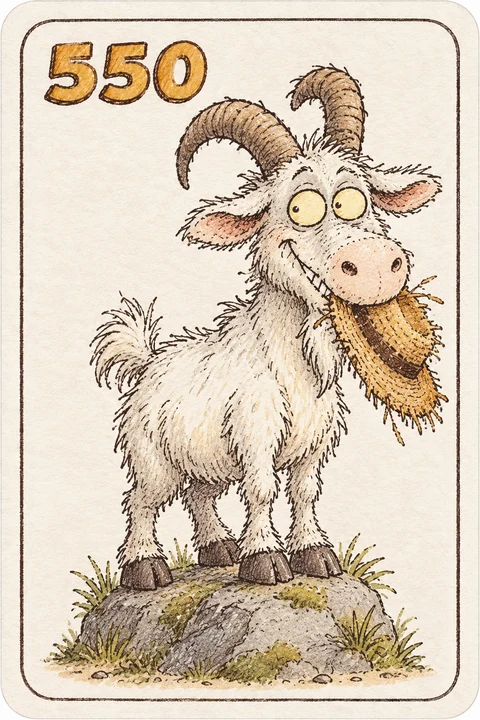
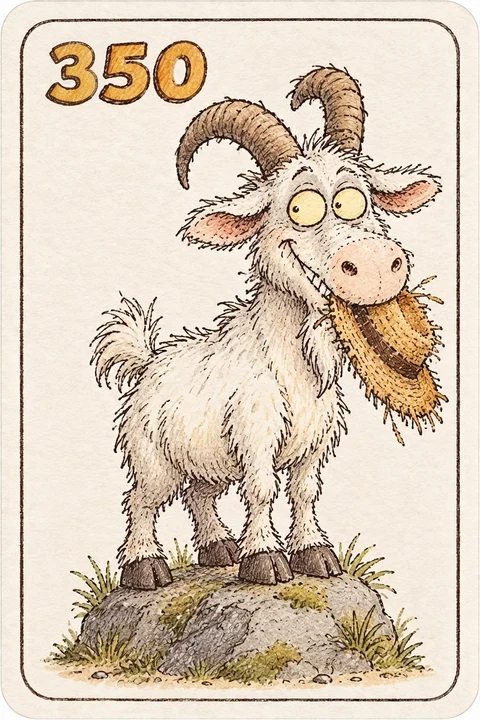
Profilbilder und korrigierte Ziegenkarte eingebunden; Konvertierung nimmt auch JPEG und _neu-Dateien

diff --git a/web/app.js b/web/app.js
@@ -94,7 +94,7 @@ AVATAR_KEY.forEach((k) => {
 });
 function avatarHTML(p) {
   const k = AVATAR_KEY[p % AVATAR_KEY.length];
-  if (avatarOk[k]) return `<div class="avatar" style="background-image:url(${A}avatar_${k}.webp);background-size:cover;background-position:center"></div>`;
+  if (avatarOk[k]) return `<div class="avatar" style="background-image:url(${A}avatar_${k}.webp);background-size:128%;background-position:50% 28%"></div>`;
   return `<div class="avatar" style="background-image:url(${tierImg(AVATAR_ANIMAL[p % AVATAR_ANIMAL.length])})"></div>`;
 }
 /** Sichtbarer Tierbestand: Karten, die gerade im Kuhhandel in der Mitte liegen, fehlen im Inventar. */

diff --git a/convert_assets.py b/convert_assets.py
@@ -1,10 +1,12 @@
-"""Erzeugt die verkleinerten WebP-Bilder für das Spiel aus deinen PNG-Originalen.
+"""Erzeugt die verkleinerten WebP-Bilder für das Spiel aus deinen Originalen (PNG oder JPEG).
 
     .venv/bin/python convert_assets.py
 
-Originale: web/assets/cards/*.png, web/assets/money/*.png, web/assets/avatars/*.png,
-           web/assets/rueckseite*.png, web/assets/tisch.png
+Originale: web/assets/cards/, web/assets/money/, web/assets/avatars/, web/assets/rueckseite*.*, web/assets/tisch.*
 Ergebnis:  web/assets/web/*.webp (diese lädt das Spiel)
+
+Ein Suffix "_neu" wird ignoriert (tier_ziege_neu.jpeg ersetzt tier_ziege.png);
+gibt es mehrere Dateien für dasselbe Bild, gewinnt die neueste.
 """
 from pathlib import Path
 
@@ -12,21 +14,34 @@ from PIL import Image
 
 SRC = Path(__file__).parent / "web" / "assets"
 OUT = SRC / "web"
+EXT = {".png", ".jpg", ".jpeg"}
+
+
+def newest(files):
+    """Pro Zielname (ohne '_neu') die zuletzt geänderte Datei."""
+    best = {}
+    for f in files:
+        if f.suffix.lower() not in EXT:
+            continue
+        stem = f.stem.removesuffix("_neu")
+        if stem not in best or f.stat().st_mtime > best[stem].stat().st_mtime:
+            best[stem] = f
+    return sorted(best.items())
 
 
 def main():
     OUT.mkdir(exist_ok=True)
-    cards = sorted((SRC / "cards").glob("*.png")) + sorted((SRC / "money").glob("*.png")) + sorted(SRC.glob("rueckseite*.png"))
-    for f in cards:
-        Image.open(f).convert("RGBA").resize((480, 720), Image.LANCZOS).save(OUT / f"{f.stem}.webp", "WEBP", quality=86)
-        print("✓", f.name)
-    for f in sorted((SRC / "avatars").glob("*.png")):
-        Image.open(f).convert("RGBA").resize((256, 256), Image.LANCZOS).save(OUT / f"{f.stem}.webp", "WEBP", quality=88)
-        print("✓", f.name)
-    table = SRC / "tisch.png"
-    if table.exists():
-        Image.open(table).convert("RGB").save(OUT / "tisch.webp", "WEBP", quality=85)
-        print("✓", table.name)
+    cards = [*(SRC / "cards").iterdir(), *(SRC / "money").iterdir(), *SRC.glob("rueckseite*")]
+    for stem, f in newest(cards):
+        Image.open(f).convert("RGBA").resize((480, 720), Image.LANCZOS).save(OUT / f"{stem}.webp", "WEBP", quality=86)
+        print("✓", f.name, "->", f"{stem}.webp")
+    if (SRC / "avatars").exists():
+        for stem, f in newest((SRC / "avatars").iterdir()):
+            Image.open(f).convert("RGB").resize((320, 320), Image.LANCZOS).save(OUT / f"{stem}.webp", "WEBP", quality=88)
+            print("✓", f.name, "->", f"{stem}.webp")
+    for stem, f in newest(SRC.glob("tisch*")):
+        Image.open(f).convert("RGB").save(OUT / f"{stem}.webp", "WEBP", quality=85)
+        print("✓", f.name, "->", f"{stem}.webp")
 
 
 if __name__ == "__main__":
